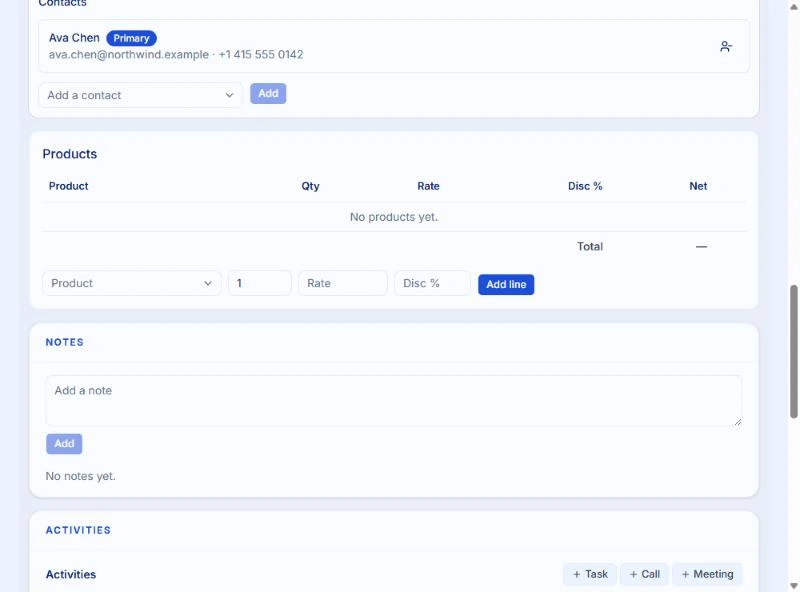
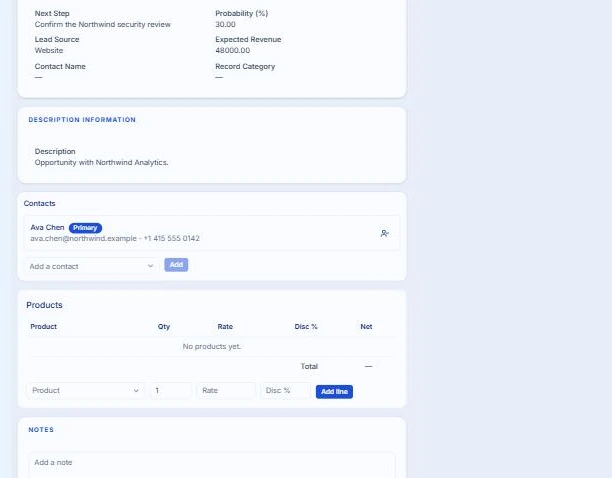
Retake CRM screenshots at full desktop width
- Capture all seven CRM screens at 1440px with scrollbars hidden
- Mask the test account username and email in the captured view
- Update screenshot dimensions in the Shot component

diff --git a/components/explore/Shot.tsx b/components/explore/Shot.tsx
@@ -2,13 +2,13 @@
    with its sample data. Sizes are the cropped pixel size of each file. */
 
 const SIZE: Record<string, [number, number]> = {
-  leads: [800, 530],
-  "lead-record": [800, 530],
-  pipeline: [800, 530],
-  "deal-record": [800, 530],
-  "deal-products": [800, 592],
-  tasks: [800, 530],
-  dashboard: [800, 592],
+  leads: [745, 478],
+  "lead-record": [800, 500],
+  pipeline: [765, 478],
+  "deal-record": [765, 478],
+  "deal-products": [612, 478],
+  tasks: [765, 478],
+  dashboard: [765, 478],
 };
 
 const css = `
